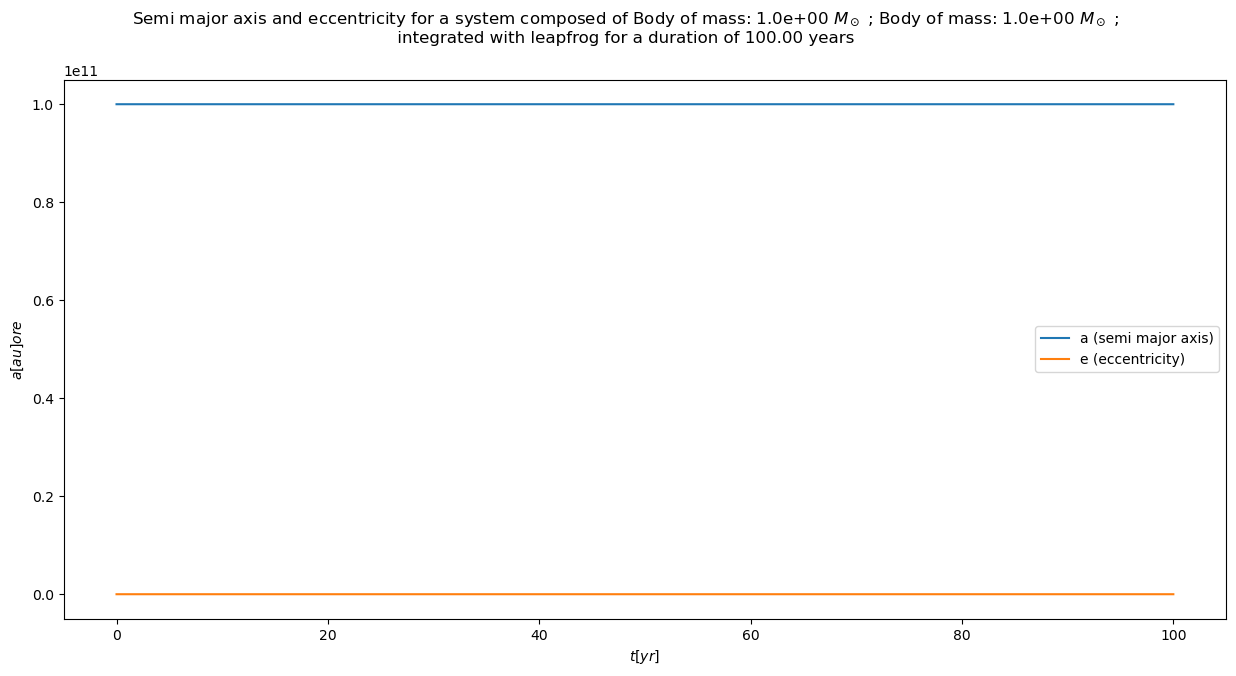
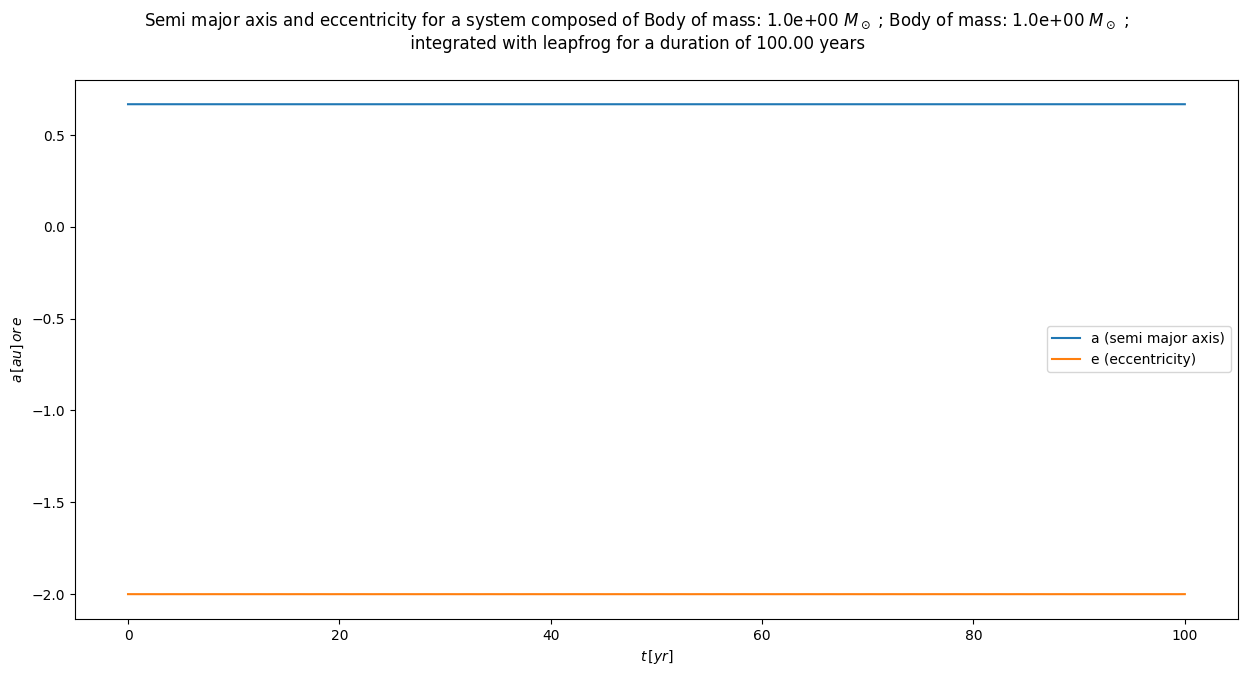
Branch with adimensionned variables

diff --git a/lib/plots.py b/lib/plots.py
@@ -110,12 +110,12 @@ def display_parameters(E,L,sma,ecc,parameters,savename=""):
     bodies = ""
     for body in dyn_syst.bodylist:
         bodies += str(body)+" ; "
-    title1, title2 = "Relative difference of the {0:s} ","for a system composed of {0:s}\n integrated with {1:s} for a duration of {2:.2f} years ".format(bodies, integrator, duration/yr)
+    title1, title2 = "Relative difference of the {0:s} ","for a system composed of {0:s}\n integrated with {1:s} for a duration of {2:.2f} years ".format(bodies, integrator, duration)
 
     fig1 = plt.figure(figsize=(15,7))
     ax1 = fig1.add_subplot(111)
     for i in range(len(E)):
-        ax1.plot(np.arange(E[i].shape[0])*step[i]/yr, np.abs((E[i]-E[i][0])/E[i][0]), label="step of {0:.2e}yr".format(step[i]/yr))
+        ax1.plot(np.arange(E[i].shape[0])*step[i], np.abs((E[i]-E[i][0])/E[i][0]), label="step of {0:.2e}yr".format(step[i]))
     ax1.set(xlabel=r"$t \, [yr]$", ylabel=r"$\left|\frac{\delta E_m}{E_m(t=0)}\right|$", yscale='log')
     ax1.legend()
     fig1.suptitle(title1.format("mechanical energy")+title2)
@@ -126,7 +126,7 @@ def display_parameters(E,L,sma,ecc,parameters,savename=""):
     for i in range(len(L)):
         dL = ((L[i]-L[i][0])/L[i][0])
         dL[np.isnan(dL)] = 0.
-        ax2.plot(np.arange(L[i].shape[0])*step[i]/yr, np.abs(np.sum(dL,axis=1)), label="step of {0:.2e}yr".format(step[i]/yr))
+        ax2.plot(np.arange(L[i].shape[0])*step[i], np.abs(np.sum(dL,axis=1)), label="step of {0:.2e}yr".format(step[i]))
     ax2.set(xlabel=r"$t \, [yr]$", ylabel=r"$\left|\frac{\delta \vec{L}}{\vec{L}(t=0)}\right|$",yscale='log')
     ax2.legend()
     fig2.suptitle(title1.format("kinetic moment")+title2)
@@ -134,8 +134,8 @@ def display_parameters(E,L,sma,ecc,parameters,savename=""):
 
     fig3 = plt.figure(figsize=(15,7))
     ax3 = fig3.add_subplot(111)
-    ax3.plot(np.arange(sma.shape[0])*step[i]/yr, sma/au, label="a (semi major axis)")
-    ax3.plot(np.arange(ecc.shape[0])*step[i]/yr, ecc, label="e (eccentricity)")
+    ax3.plot(np.arange(sma.shape[0])*step[i], sma, label="a (semi major axis)")
+    ax3.plot(np.arange(ecc.shape[0])*step[i], ecc, label="e (eccentricity)")
     ax3.set(xlabel=r"$t \, [yr]$", ylabel=r"$a \, [au] \, or \, e$")
     ax3.legend()
     fig3.suptitle("Semi major axis and eccentricity "+title2)

diff --git a/main.py b/main.py
@@ -11,8 +11,8 @@ from lib.units import *
 
 def main():
     #initialisation
-    m = np.array([1., 1., 1e-5])*Ms  # Masses in Solar mass
-    a = np.array([1., 1., 5.])*au   # Semi-major axis in astronomical units
+    m = np.array([1., 1., 1e-5])*Ms/Ms  # Masses in Solar mass
+    a = np.array([1., 1., 5.])*au/au   # Semi-major axis in astronomical units
     e = np.array([0., 0., 1./4.])   # Eccentricity
     psi = np.array([0., 0., 0.])*np.pi/180.    # Inclination of the orbital plane in degrees
 
@@ -21,13 +21,13 @@ def main():
     x3 = np.array([np.cos(psi[2]), 0., np.sin(psi[2])])*a[2]
     q = np.array([x1, x2, x3])
 
-    v1 = np.array([np.sqrt(G*m[1]**2/((m[0]+m[1])*np.sqrt(np.sum((q[0]-q[1])**2)))), 0., 0.])
-    v2 = np.array([-np.sqrt(G*m[0]**2/((m[0]+m[1])*np.sqrt(np.sum((q[0]-q[1])**2)))), 0., 0.])
-    v3 = np.array([0., np.sqrt(G*(m[0]+m[1])*(2./np.sqrt(np.sum(q[2]**2))-1./a[2])), 0.])
+    v1 = np.array([np.sqrt(Ga*m[1]**2/((m[0]+m[1])*np.sqrt(np.sum((q[0]-q[1])**2)))), 0., 0.])
+    v2 = np.array([-np.sqrt(Ga*m[0]**2/((m[0]+m[1])*np.sqrt(np.sum((q[0]-q[1])**2)))), 0., 0.])
+    v3 = np.array([0., np.sqrt(Ga*(m[0]+m[1])*(2./np.sqrt(np.sum(q[2]**2))-1./a[2])), 0.])
     v = np.array([v1, v2, v3])
 
     #integration parameters
-    duration, step = 100*yr, np.array([1./(365.25*2.), 1./(365.25*1.), 5./(365.25*1.)])*yr #integration time and step in years
+    duration, step = 100*yr/yr, np.array([1./(365.25*2.), 1./(365.25*1.), 5./(365.25*1.)])*yr/yr #integration time and step in years
     step = np.sort(step)[::-1]
     integrator = "leapfrog"
     n_bodies = 2
@@ -52,7 +52,7 @@ def main():
 
     parameters = [duration, step, dyn_syst, integrator]
     display_parameters(E, L, sma, ecc, parameters=parameters, savename=savename)
-    print(sma/au)
+    print(sma,ecc)
     return 0
 
 if __name__ == '__main__':

diff --git a/lib/objects.py b/lib/objects.py
@@ -22,10 +22,10 @@ class Body:
         self.vp = np.zeros(3)
 
     def __repr__(self): # Called upon "print(body)"
-        return r"Body of mass: {0:.1e} $M_\odot$, position: {1}, velocity: {2}".format(self.m/Ms, self.q, self.v)
+        return r"Body of mass: {0:.1e} $M_\odot$, position: {1}, velocity: {2}".format(self.m, self.q, self.v)
 
     def __str__(self): # Called upon "str(body)"
-        return r"Body of mass: {0:.1e} $M_\odot$".format(self.m/Ms)
+        return r"Body of mass: {0:.1e} $M_\odot$".format(self.m)
 
     @property
     def p(self):
@@ -118,7 +118,7 @@ class System(Body):
             for otherbody in self.bodylist:
                 if body != otherbody:
                     rij = np.linalg.norm(body.q-otherbody.q)
-                    W = W - G*body.m*otherbody.m/rij
+                    W = W - Ga*body.m*otherbody.m/rij
         E = T + W
         return E
          
@@ -133,7 +133,7 @@ class System(Body):
     @property
     def ecc(self): #exentricity of two body sub system
         if len(self.bodylist) == 2 :
-            ecc = (2.*self.E*(np.linalg.norm(self.L)**2))/((G**2)*(self.M**2)*(self.mu**3)) + 1.
+            ecc = (2.*self.E*(np.linalg.norm(self.L)**2))/((Ga**2)*(self.M**2)*(self.mu**3)) + 1.
         else :
             ecc = np.nan
         return ecc
@@ -141,7 +141,7 @@ class System(Body):
     @property
     def sma(self): #semi major axis of two body sub system
         if len(self.bodylist) == 2 :
-            sma = -G*self.M*self.mu/(2.*self.E)
+            sma = -Ga*self.M*self.mu/(2.*self.E)
         else :
             sma = np.nan
         return sma

diff --git a/lib/LeapFrog.py b/lib/LeapFrog.py
@@ -22,7 +22,7 @@ def Kick(dyn_syst, dt):
         for otherbody in dyn_syst.bodylist:
             if body != otherbody:
                 rij = np.linalg.norm(body.q - otherbody.q)
-                body.a = body.a - (body.q - otherbody.q) * G * otherbody.m / (rij ** 3)
+                body.a = body.a - (body.q - otherbody.q) * Ga * otherbody.m / (rij ** 3)
         body.v = body.v + dt * body.a
 
 

diff --git a/lib/units.py b/lib/units.py
@@ -8,3 +8,4 @@ globals()['G'] = 6.67e-11 #Gravitational constant in SI units
 globals()['Ms'] = 2e30 #Solar mass in kg
 globals()['au'] = 1.5e11 #Astronomical unit in m
 globals()['yr'] = 3.15576e7 #year in seconds
+globals()['Ga'] = G*Ms*yr**2/au**3 #Gravitational constant adimensionned
